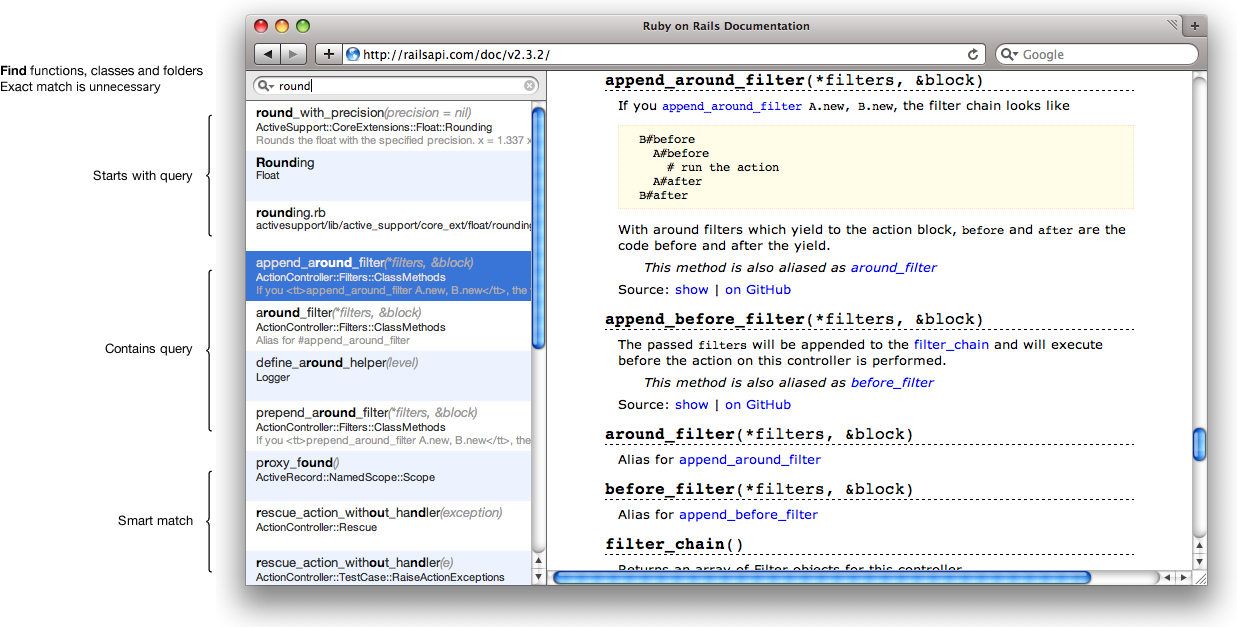
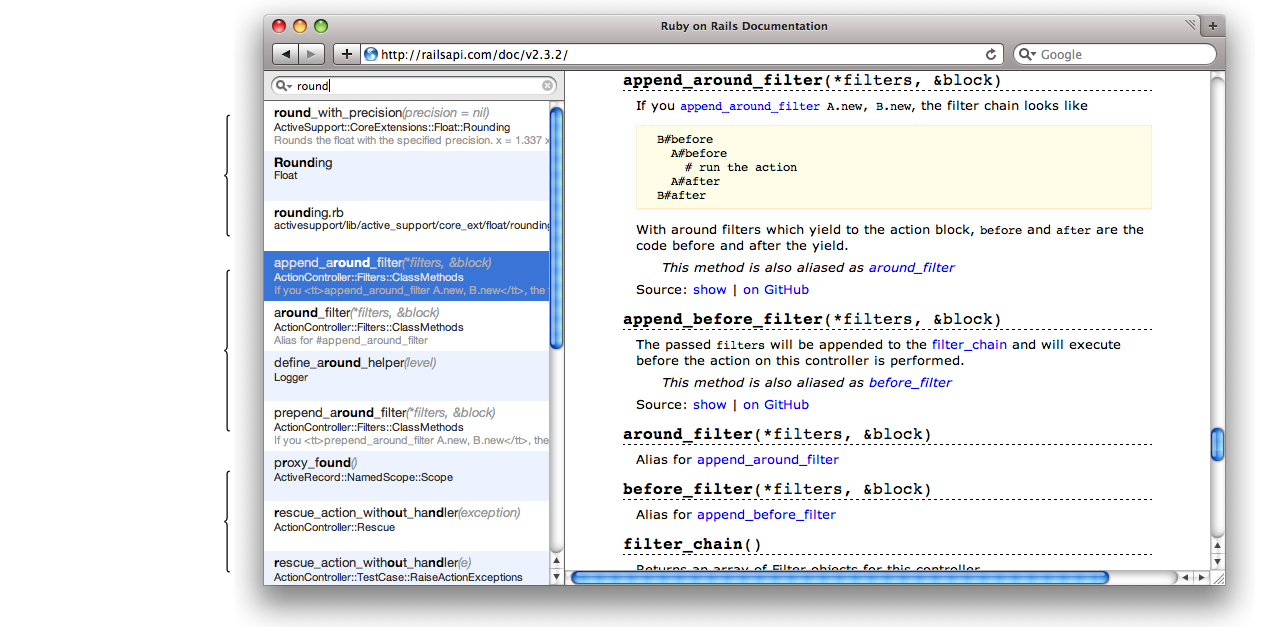
Fixed screenshots

diff --git a/public/css/master.css b/public/css/master.css
@@ -60,15 +60,62 @@ h3 i
     background-repeat: no-repeat;
     height: 627px;
     margin-bottom: 30px;
+    font-size: 0.8em;
+    line-height: 1.3em;
+    position: relative;
+    left: 0; top: 0;
 }
 
-.promo_win
+.promo .slogan
+{
+    position: absolute;
+    left: 0;
+    top: 62px;
+}
+
+.promo .q1,
+.promo .q2,
+.promo .q3
+{
+    position: absolute;
+    text-align: right;
+    width: 210px;
+    left: 0;
+    top: 194px;
+}
+
+.promo .q2
+{
+    top: 370px;
+}
+
+.promo .q3
+{
+    top: 518px;
+}
+
+#mac .promo .q1
+{
+    top: 167px;
+}
+
+#mac .promo .q2
+{
+    top: 342px;
+}
+
+#mac .promo .q3
+{
+    top: 512px;
+}
+
+#win .promo
 {
     background: url(../i/win/promo.png);
     background-repeat: no-repeat;
 }
 
-.promo_win-chrome
+#win-chrome .promo
 {
     background: url(../i/win-chrome/promo.png);
     background-repeat: no-repeat;

diff --git a/public/index.html b/public/index.html
@@ -72,9 +72,15 @@
             Internet Explorer is currently unsupported
         </div>
     </div>
-    <div class="promo promo_mac mac"></div>
-    <div class="promo promo_win win"></div>
-    <div class="promo promo_win-chrome win-chrome"></div>
+    <div class="promo">
+        <div class="slogan">
+            <b>Find</b> functions, classes and files<br />
+            Exact match is unnecessary
+        </div>
+        <div class="q1">Starts with query</div>
+        <div class="q2">Contains query</div>
+        <div class="q3">Smart match</div>
+    </div>
     
     <div class="features">
         <h2>Features</h2>
